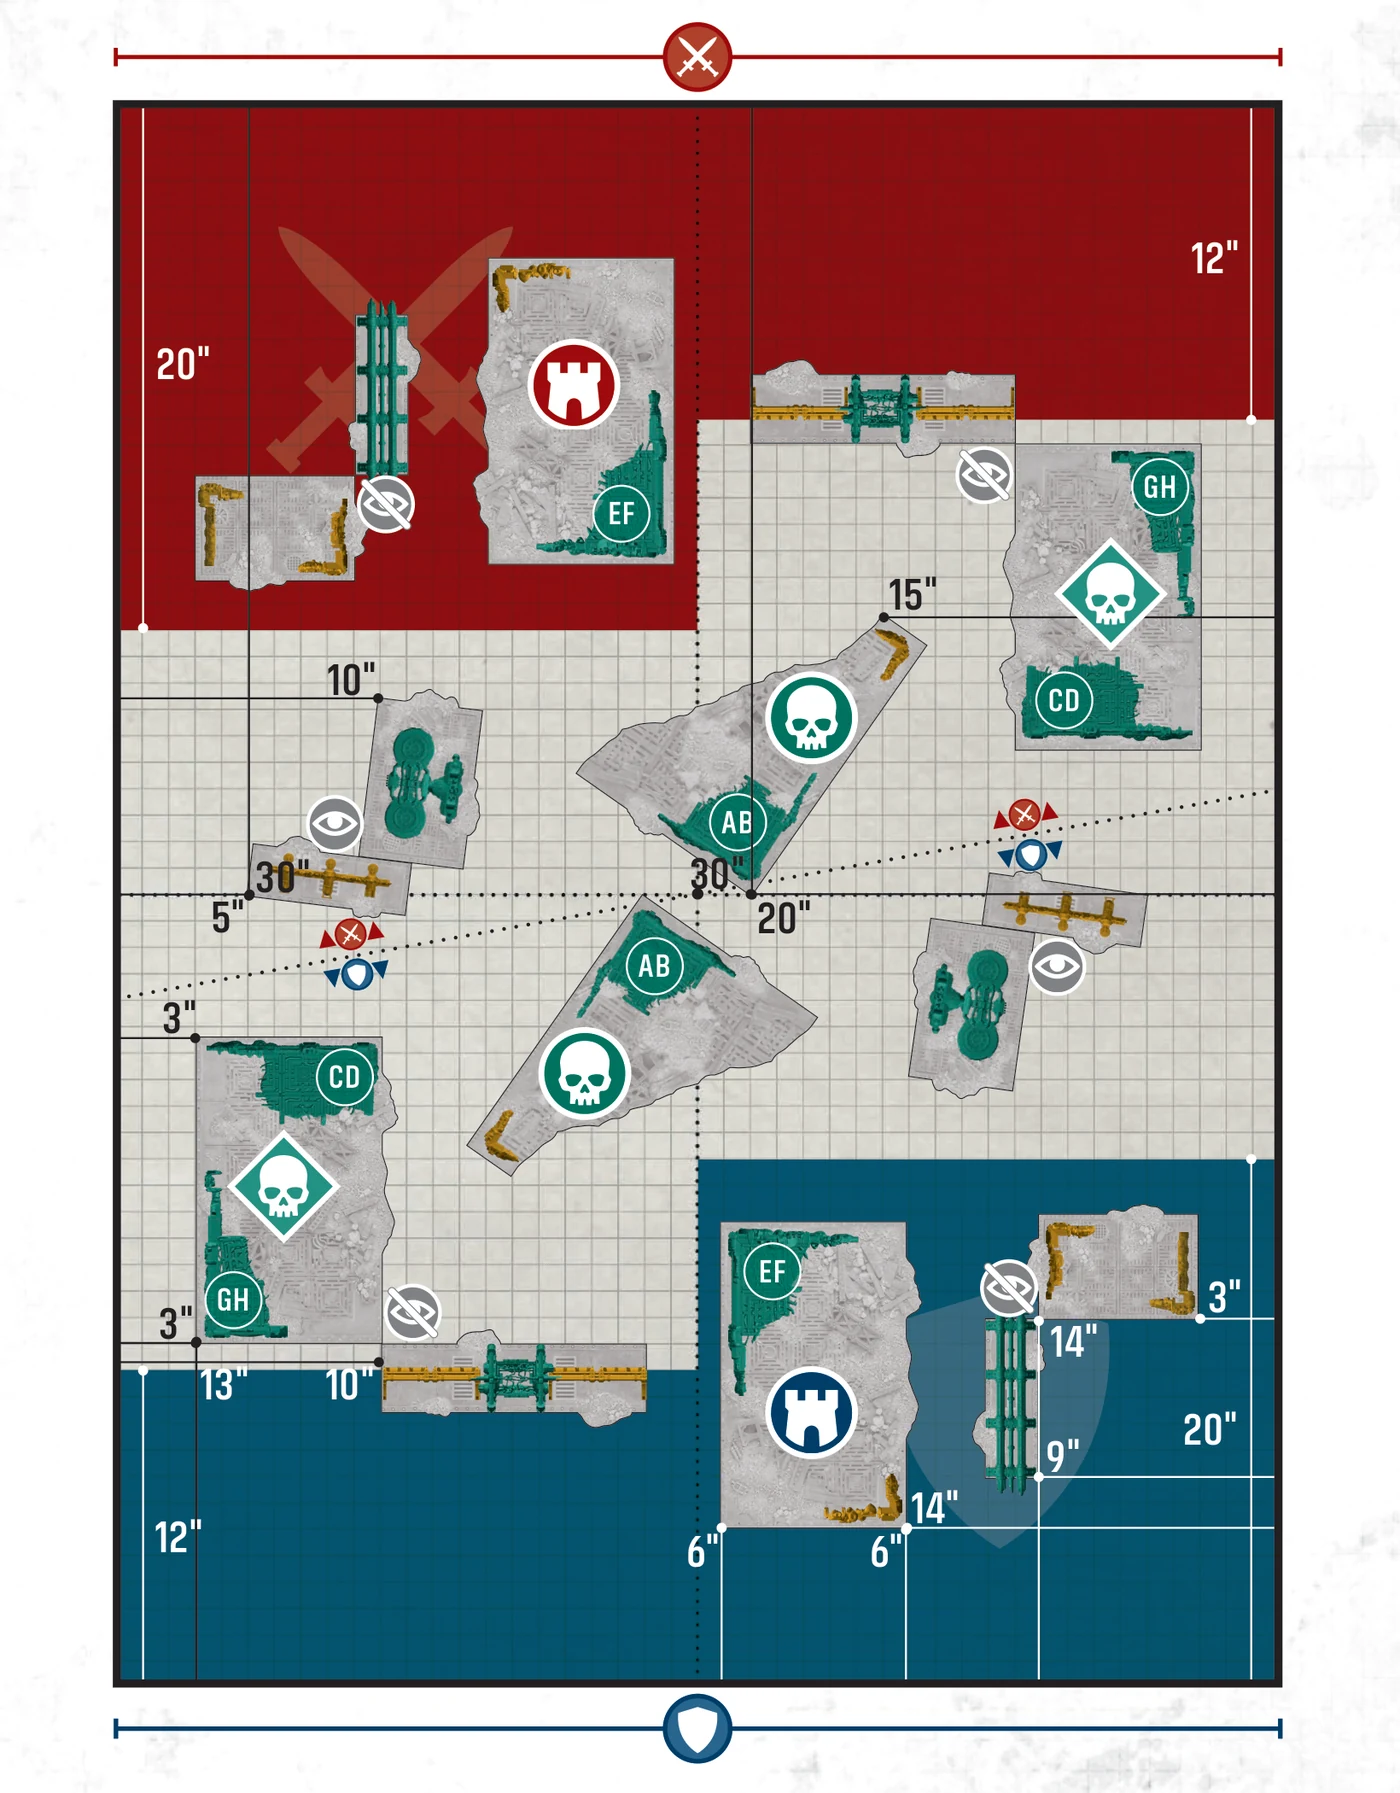
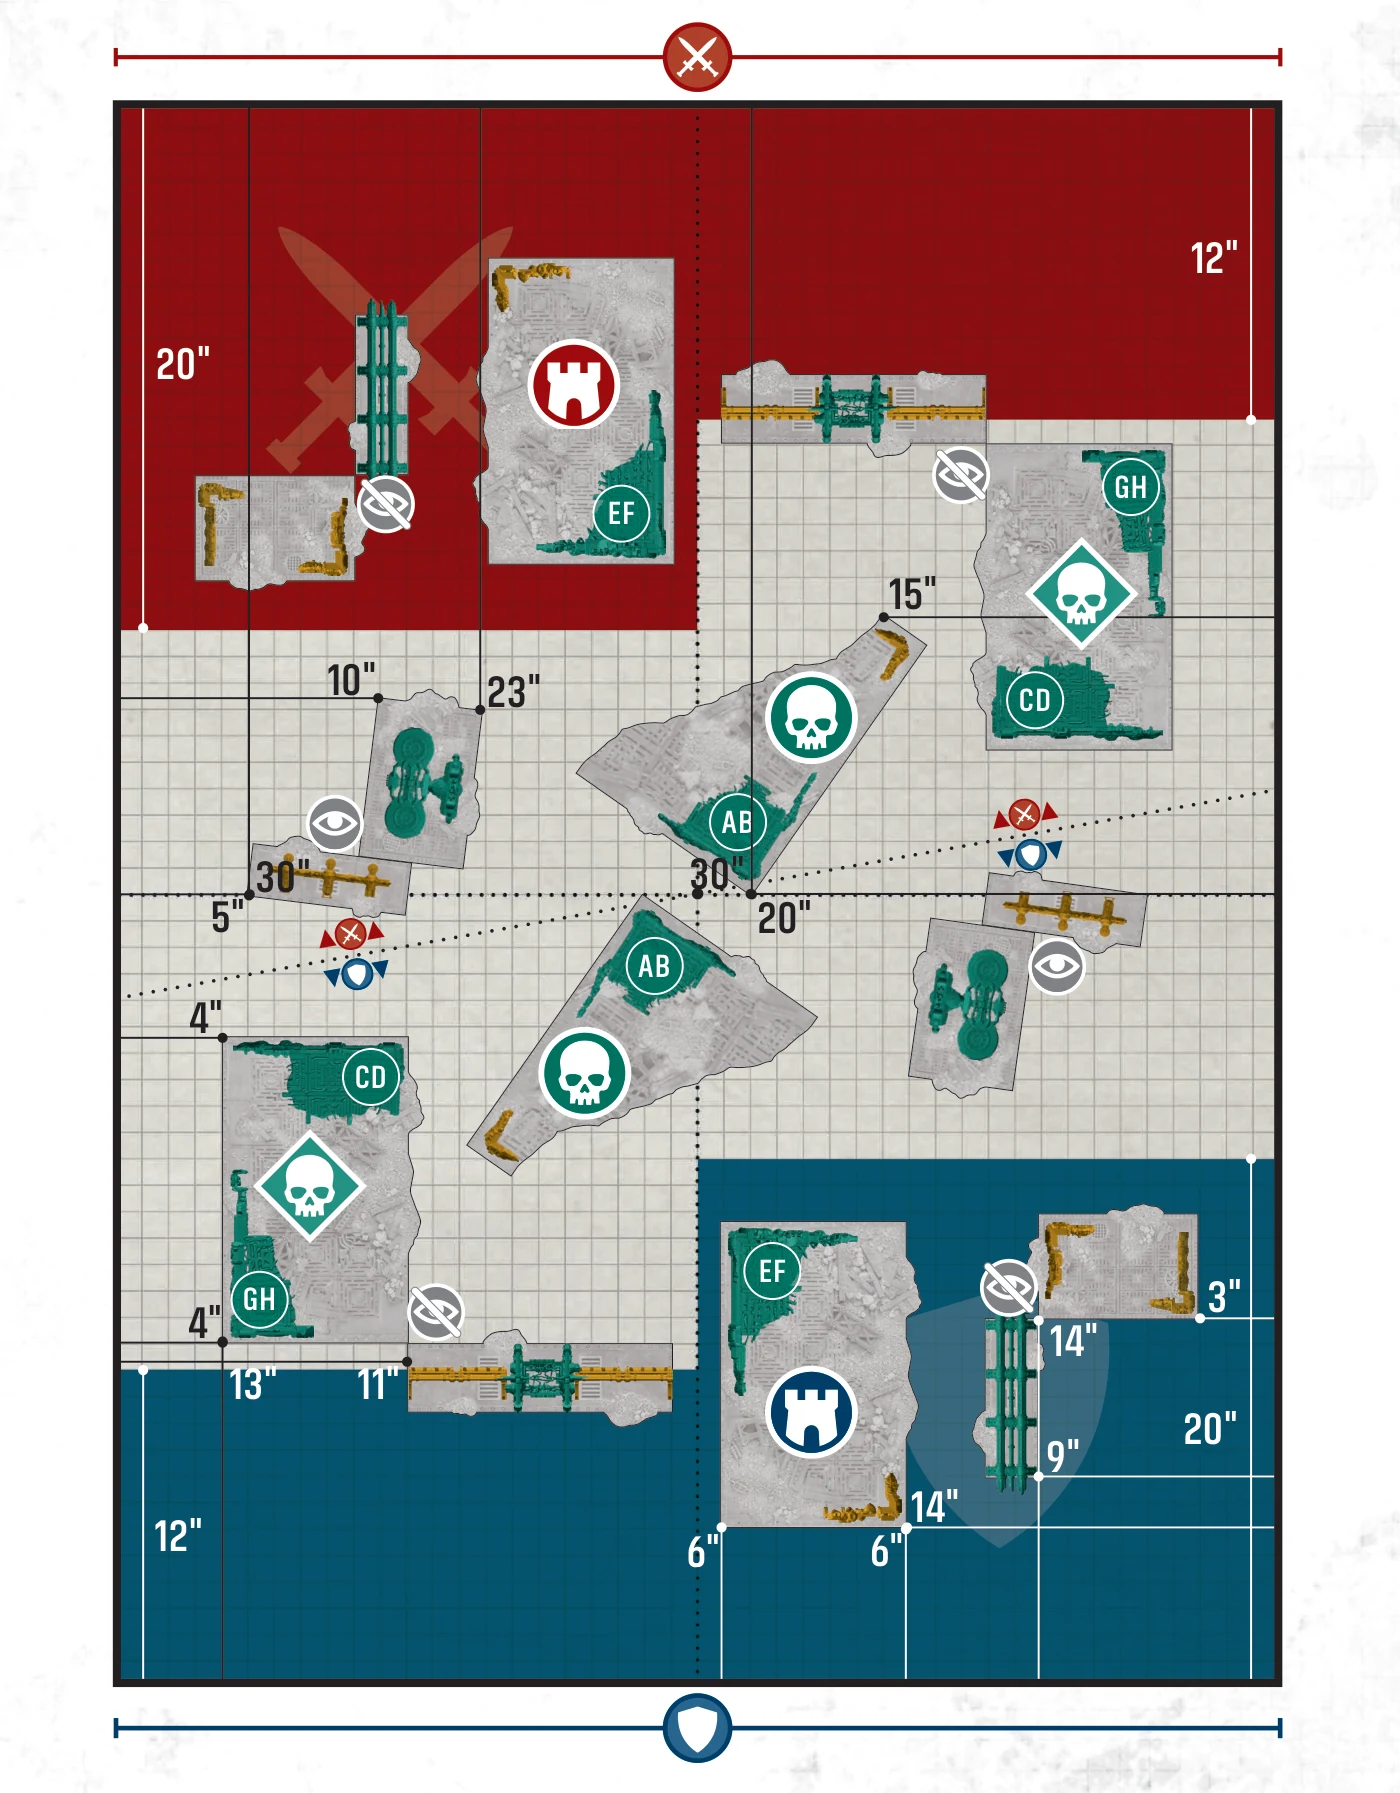
chore: update layouts

diff --git a/src/data/layouts.ts b/src/data/layouts.ts
@@ -1,5 +1,5 @@
 // Deployment-map layouts, extracted from the official Warhammer 40,000 Event
-// Companion PDF (version 1.1, 22 July 2026), pages 9-53 — one page per layout.
+// Companion PDF (version 1.2, August 2026), pages 9-53 — one page per layout.
 // Each unordered pair of Force Dispositions has three terrain layouts (the PDF
 // labels them A / B / C, matching how we surface them). Each page was cropped to
 // the battlefield plus its attacker/defender edge markers and saved as

diff --git a/AGENTS.md b/AGENTS.md
@@ -40,7 +40,7 @@ When working with Vue 3 APIs, SFC conventions, or Vue Router usage and you're un
 - `logo.webp` — app logo (also the favicon in `index.html`, which needs `type="image/webp"`). `home.webp` / `error.webp` — default imagery for the home and error states; **note both are currently unreferenced by any code.**
 - `public/images/factions/*.webp` — 27 faction logos, one per codex, filenamed as the `snake_case` faction key: `adepta_sororitas`, `adeptus_custodes`, `adeptus_mechanicus`, `aeldari`, `astra_militarum`, `black_templars`, `blood_angels`, `chaos_daemons`, `chaos_knights`, `chaos_space_marines`, `dark_angels`, `death_guard`, `deathwatch`, `drukhari`, `emperors_children`, `genestealer_cults`, `grey_knights`, `imperial_knights`, `leagues_of_votann`, `necrons`, `orks`, `space_marines`, `space_wolves`, `tau`, `thousand_sons`, `tyranids`, `world_eaters`.
 - `public/images/dispositions/*.webp` (5), `public/images/primaries/*.webp` (25), and `public/images/secondaries/*.webp` (18) — the full-bleed card art for each Force Disposition, Primary Mission, and Secondary Mission. Unlike the `snake_case` faction logos, these are filenamed as the `kebab-case` slug used as each entry's `key` in `dispositions.ts` / `primaries.ts` / `secondaries.ts` (e.g. `take-and-hold.webp`, `a-grievous-blow.webp`).
-- `public/images/layouts/*.webp` (45) — the three terrain layouts for every unordered Force-Disposition pairing, extracted from the official Warhammer 40,000 Event Companion PDF (v1.1, 22 July 2026), pages 9–53, one page per layout. Each page was cropped to the battlefield plus its attacker/defender edge markers and rendered at 1400px wide. The PDF's maps carry their measurements baked in, so there is a single set of art — no clean variant, and no measurements toggle in the UI. Named `<slug>-<1|2|3>.webp` where `<slug>` is `<a>-vs-<b>` with the two dispositions in the canonical order of `dispositions.ts` (e.g. `take-and-hold-vs-purge-the-foe`, `take-and-hold-vs-take-and-hold` for the mirror); `layoutSlug` derives it, so either disposition order resolves to the same stem.
+- `public/images/layouts/*.webp` (45) — the three terrain layouts for every unordered Force-Disposition pairing, extracted from the official Warhammer 40,000 Event Companion PDF (v1.2, August 2026), pages 9–53, one page per layout. Each page was cropped to the battlefield plus its attacker/defender edge markers and rendered at 1400px wide. The PDF's maps carry their measurements baked in, so there is a single set of art — no clean variant, and no measurements toggle in the UI. Named `<slug>-<1|2|3>.webp` where `<slug>` is `<a>-vs-<b>` with the two dispositions in the canonical order of `dispositions.ts` (e.g. `take-and-hold-vs-purge-the-foe`, `take-and-hold-vs-take-and-hold` for the mirror); `layoutSlug` derives it, so either disposition order resolves to the same stem.
 - These live under `public/`, so Vite serves them at the root — reference them at runtime as `/images/factions/<key>.webp` (or `/images/{dispositions,primaries,secondaries}/<key>.webp`), not via `src` imports.
 - If a new faction/codex is added later, keep the same `snake_case` naming convention so any faction-picker UI can resolve the logo path programmatically from the faction key.
 
